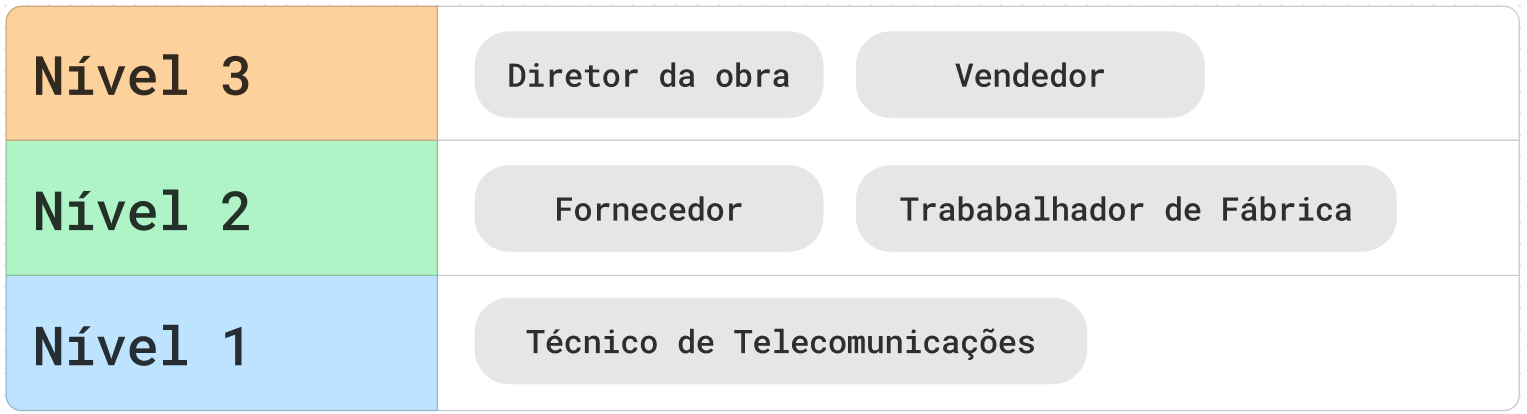
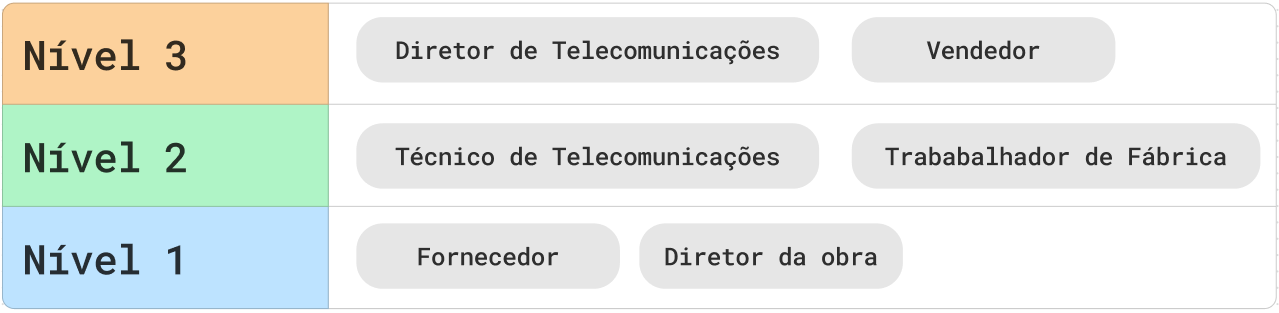
Update final report

Changed region(s): [[0.0, 0.0, 1.0, 1.0], [0.0, 0.4026, 0.183, 0.5751], [0.0, 0.7764, 0.183, 0.8914]]

diff --git a/FinalReport.md b/FinalReport.md
@@ -25,6 +25,7 @@ A arquitetura do sistema é composta por três componentes principais: o *IdP* (
 
 No sistema descrito, temos as seguintes entidades:
 - Diretor da Obra;
+- Diretor de Telecomunicações;
 - Fornecedor;
 - Técnico de Telecomunicações;
 - Trabalhador de Fábrica;
@@ -45,11 +46,11 @@ De modo a melhor compreender o funcionamento do sistema, foi desenvolvido um dia
 Para uma melhor compreensão das medidas de segurança a se tomar, foi descrito o funcionamento das características principais do sistema, de modo a criar uma solução adequada para o mesmo. Esta descrição foi feita com base em diagramas de caso de uso, obtendo-se os seguintes resultados:
 
 <div style="display: flex; justify-content: center;margin-bottom: 40px;">
-    <div>
+    <div style="padding:10px;">
         <img src="img/RealizarObra.png" alt="Pedir Orçamento" width="300"/>
         <p align="center" style="font-size: 10px;">Figura 2: Diagrama de caso de uso para a realização de um pedido de Obra.</p>
     </div>
-    <div>
+    <div style="padding:10px;">
         <img src="img/RealizarOrcamento.png" alt="Pedir Orçamento" width="300"/>
         <p align="center" style="font-size: 10px;">Figura 3: Diagrama de caso de uso para a realização de um pedido de orçamento.</p>
     </div>
@@ -74,7 +75,7 @@ Como o sistema é composto por diversos tipos de utilizados, onde os mesmos aced
 Com base nas funções desempenhadas pelos utilizadores do sistema e sensibilidade dos recursos acedidos, foi desenvolvida a seguinte **hierarquia de acesso**:
 
 <p align="center">
-  <img src="img/Hierarquia_CRM.png" alt="Hierarquia dos Utilizadores" width="400"/>
+  <img src="img/Hierarquia_CRM.png" alt="Hierarquia dos Utilizadores" width="600"/>
 </p>
 
 <p align="center" style="font-size: 10px;">
@@ -112,16 +113,17 @@ Para a implementação do controlo de acesso, foi feito um enumeração dos recu
 
 Com isto, foi definida a seguinte estrutura baseada:
 
-| Acessos                         | Vendedor | Dir. da Obra | Fornecedor | Tec. Telecom | Trab. de Fábrica |
-| ------------------------------- | -------- | ------------ | ---------- | ------------ | ---------------- |
-| Morada e contactos dos Clientes | Sim      | Sim          | Não        | Não          | Não              |
-| Contactos do diretor da obra    | Sim      | -            | Sim        | Não          | Não              |
-| Morada da obra                  | Sim      | Sim          | Não        | Não          | Não              |
-| Material da obra                | Sim      | Sim          | Sim        | Sim          | Sim              |
-| Material em stock               | Não      | Não          | Sim        | Não          | Sim              |
-| Tabela de preços                | Sim      | Sim          | Sim        | Não          | Não              |
-| Escalão de desconto             | Sim      | Não          | Não        | Sim          | Não              |
-| Status da obra                  | Sim      | Sim          | Não        | Não          | Não              |
+| Acessos                         | Vendedor | Dir. da Obra | Fornecedor | Tec. Telecom | Trab. de Fábrica | Dir. de Telecom |
+| ------------------------------- | -------- | ------------ | ---------- | ------------ | ---------------- | --------------- |
+| Morada e contactos dos Clientes | Sim      | Não          | Não        | Não          | Não              | Sim             |
+| Contactos do diretor da obra    | Sim      | Não          | Sim        | Não          | Não              | Sim             |
+| Morada da obra                  | Sim      | Não          | Não        | Não          | Não              | Sim             |
+| Material da obra                | Sim      | Não          | Sim        | Sim          | Sim              | Sim             |
+| Material em stock               | Não      | Não          | Sim        | Não          | Sim              | Não             |
+| Tabela de preços                | Sim      | Sim          | Sim        | Não          | Não              | Sim             |
+| Status da obra                  | Sim      | Não          | Não        | Não          | Não              | Sim             |
+
+> **Nota:** O Diretor da obra apenas tem acesso às informações da obra do próprio.
 
 ## *Authentication* e *Authorization flow*
 
@@ -339,11 +341,13 @@ Com base na descrição do sistema das entidades e relações feita na primeira 
 ## Arquitetura do Sistema
 
 A arquitetura encontra-se dividida em três componentes principais: 
-- **Client's**: Onde se encontra o *frontend* das aplicações;
-- **IdP**: Onde se encontra o *backend* da aplicação, responsável pela autenticação e autorização dos utilizadores;
+- **Client's**: Onde se encontra o *frontend* e *backend* das aplicações;
+- **IdP**: Onde se encontra o *frontend* e *backend* da aplicação responsável pela autenticação e autorização dos utilizadores;
 - **Resource Server**: Onde se encontra o *backend* da aplicação, responsável pela gestão dos recursos e controlo de acessos.
 
-Cada *Client* tem acesso a diferentes recursos, e o seu acesso é condicionado pelo *IdP* e *Resource Server*.
+Cada *Client* tem acesso a diferentes recursos, e o seu acesso é condicionado por: 
+- *IdP*: gestão de acessos (autenticação), 
+- *Resource Server*: gestão de recursos (autorização).
 
 Temos três *Client's* com as seguintes funcionalidades (dependendo do seu nível de risco):
 1. Visualização do material da obra;
@@ -365,7 +369,16 @@ A estrutura do projeto encontra-se organizada da seguinte forma:
 
 TODO: Escrever sobre o *Client* e a sua implementação.
 
-### Armazenamento e Auditoria de *Logs*
+Client 1:
+Gestão do stock de material e ver preços dos produtos(fornecedor);(trabalhador de fábrica)
+
+Client 2:
+Gestão de moradas, clientes e diretores de obra(fornecedor);(vendedor)
+
+Client 3:
+Gestão de preços dos produtos(Diretor Telecom), material obra(técnico Telecom, vendedor), status obra(diretorTelcom, vendedor, técnico telecom) e ver clientes.(Diretor Telecom)
+
+### *Logs*: Armazenamento e Auditoria
 
 Os *logs*, tanto de autenticação (*Authorization Server*) como de acesso a recursos (*Resource Server*), são guardados na base de dados, contendo as seguintes informações, consoante o propósito do *log*:
 
@@ -382,13 +395,13 @@ Existem dois tipos de *logs*:
 - `ERROR`: *Logs* de erro, que contêm informações sobre pedidos que falharam;
   - `AUTHENTICATION_ERROR`: *Logs* de erro de autenticação, que contêm informações sobre pedidos de autenticação que falharam;
   - `ACCESS_ERROR`: *Logs* de erro de acesso, que contêm informações sobre pedidos de acesso a recursos que falharam.
-- `INFO`: *Logs* de informação, que contêm informações sobre pedidos bem-sucedidos.
-  - `AUTHENTICATION_INFO`: *Logs* de informação de autenticação, que contêm informações sobre pedidos de autenticação bem-sucedidos;
-  - `ACCESS_INFO`: *Logs* de informação de acesso, que contêm informações sobre pedidos de acesso a recursos bem-sucedidos.
+- `INFO`: *Logs* de informação, que contêm informações sobre pedidos com sucesso.
+  - `AUTHENTICATION_INFO`: *Logs* de informação de autenticação, que contêm informações sobre pedidos de autenticação com sucesso;
+  - `ACCESS_INFO`: *Logs* de informação de acesso, que contêm informações sobre pedidos de acesso a recursos com sucesso.
 
 ### IdP (*Identity Provider*)
 
-### OAuth 2.0
+#### OAuth 2.0
 
 Assim como foi referido anteriormente na primeira parte do relatório, o fluxo escolhido para o processo de autenticação foi o *Authorization Code flow*.
 
@@ -437,17 +450,14 @@ Este fluxo encontra-se representado no seguinte diagrama:
 
 Para a implementação, foi utilizado a biblioteca `pyotp`, que permite a criação de códigos de autenticação com base no algoritmo `TOTP` (*Time-based One-Time Password*). Este algoritmo gera um código de autenticação que é válido apenas por um curto período de tempo, no caso **90 segundos**, e é gerado com base numa *seed* e no tempo atual.
 
-O seguinte código mostra a geração de um código de autenticação, que recebe como argumentos a *seed* (que será a credencial do utilizador) e o email do utilizador e devolve o código e o URI para a criação de um *QR Code*:
+A geração de um código de autenticação, recebe como argumentos a *seed* (que será o *salt* do utilizador) e o email do utilizador e devolve o código e o URI para a criação de um *QR Code*:
 
-```python
-from pyotp import TOTP
-
-def create_totp(seed: str, email_address: str):
-    totp = TOTP(seed)
-    totp_code = totp.now()
-    uri = totp.provisioning_uri(name=email_address, issuer_name='CRM IAA')
-    return totp_code, uri
-```
+<p align="center">
+  <img src="img/totp.png" width="400" title="OTP">
+</p>
+<p align="center" style="font-size: 10px;">
+  <i>Figura 11 - Código de autenticação gerado com base no algoritmo TOTP</i>
+</p>
 
 O *QR code* é gerado com base no URI, usando a biblioteca `qrcode`, e é guardado num *buffer* de imagem para ser enviado ao utilizador por email.
 
@@ -461,7 +471,7 @@ E foi utilizada a biblioteca `smtplib` para o envio de emails sobre o domínio d
   <img src="img/email_otp.jpg" width="300" title="Email OTP">
 </p>
 <p align="center" style="font-size: 10px;">
-  <i>Figura 11 - Email de autenticação com o código de autenticação e o QR Code</i>
+  <i>Figura 12 - Email de autenticação com o código de autenticação e o QR Code</i>
 </p>
 
 > Os QRCodes gerados são compatíveis com aplicações como o *Google Authenticator*.
@@ -478,9 +488,9 @@ Estes são assinados usando o algoritmo `RS256` (*RSA Signature with SHA-256*), 
 
 > Este par de chaves foi gerado usando a ferramenta *OpenSSL* e encontram-se guardadas na diretoria `backend/keys/` em formato `.pem`.
 
-### Validação dos *tokens*
+### Integridade de *tokens*
 
-Para validar os *tokens* de acesso, o *Resource Server* verifica a assinatura do *token* através de JWKS (*JSON Web Key Set*), que contém as chaves públicas do *IdP*. Envolve a criação de um *endpoint* que retorna as chaves públicas do *IdP* usadas para assinar os *tokens* usando o algoritmo `RS256`.
+Para validar a assinatura dos *tokens* de acesso, é feito através de **JWKS** (*JSON Web Key Set*), que contém todas as chaves públicas do *IdP*. 
 
 Exemplo de um *JWKS*: 
 ```json
@@ -498,22 +508,25 @@ Exemplo de um *JWKS*:
 }
 ```
 
+Envolve a criação de um *endpoint* que retorna as chaves públicas do *IdP* usadas para assinar os *tokens* usando o algoritmo `RS256`. É feito da seguinte forma:
+
+<p align="center">
+  <img src="img/jwks-flow.png" width="500" title="JWKS Endpoint">
+</p>
+<p align="center" style="font-size: 10px;">
+  <i>Figura 13 - Fluxo de mensagens para a obtenção das chaves públicas do IdP</i>
+</p>
+
+
 > Mais informação sobre este *standard* (RFC 7517): [Auth0 - JSON Web Key Set (JWKS)](https://auth0.com/docs/secure/tokens/json-web-tokens/json-web-key-sets)
 
-Ficheiro .PEM correspondente à chave pública:
-```pem
------BEGIN PUBLIC KEY-----
[6 lines of base64/hex data omitted]
-nQIDAQAB
------END PUBLIC KEY-----
-```
-
 > Conversor de JWK para PEM: [JWK to PEM](https://8gwifi.org/jwkconvertfunctions.jsp)
+
+### *Resource Server*
+
+Com base na tabela de mapeamento de recursos definida na primeira parte do trabalho, foram implementados os *endpoints* que permitem o acesso aos recursos, condicionado pelo nível de acesso do utilizador.
+
+#### Validação de *tokens*
 
 No *Resource Server*, é feita a validação do *token* de acesso, verificando a assinatura do *token* com a chave pública do *IdP*, da seguinte forma:
 
@@ -540,15 +553,11 @@ def verify_token(f):
 
 Este *decorator* é aplicado a todos os *endpoints* que requerem autenticação (`@verify_token`), garantindo que apenas pedidos com *tokens* válidos têm acesso aos recursos.
 
-### *Resource Server*
-
-Com base na tabela de mapeamento de recursos definida na primeira parte do trabalho, foram implementados os *endpoints* que permitem o acesso aos recursos, condicionado pelo nível de acesso do utilizador.
-
-#### Implementação de *Middleware*
+#### *Middleware*
 
 Para a implementação do controlo de acesso, foi criado um *middleware* que verifica o nível de acesso do utilizador e o recurso a que está a tentar aceder, e permite ou nega o acesso ao recurso, consoante o nível de acesso do utilizador.
 
-Esta verificação é feita usando o seguinte *decorator*:
+Esta verificação é feita usando o *decorator* `check_permission`, que recebe uma lista de níveis de acesso e verifica se o nível de acesso do utilizador está presente na lista, da seguinte forma:
 ```python
 def check_permission(roles: list):
     def decorator(func):
@@ -579,14 +588,10 @@ Este é aplicado a todos os *endpoints* que requerem controlo de acesso, garanti
 @app.route('/exemplo', methods=['GET'])
 @check_permission(['nivel_1', 'nivel_2', 'nivel_3'])
 def get_resource():
-    return jsonify({"message": "Resource accessed"})
+    return resource
 ```
 
 #### Controlo de Acesso (Biba e LaPadula)
-
-## Testes de Validação
-
-TODO: Ainda não chegamos cá...
 
 ## Conclusão
 
@@ -597,13 +602,13 @@ Em suma, todos os objetivos propostos para a segunda parte do trabalho foram alc
 ## Referências
 
 - [Auth0 - JSON Web Key Set (JWKS)](https://auth0.com/docs/secure/tokens/json-web-tokens/json-web-key-sets)
-- [Authlib Documentation](https://docs.authlib.org/en/latest/)
 - [Auth0 - Authorization Code Flow](https://auth0.com/docs/flows/authorization-code-flow)
 - [Auth0 - Which OAuth 2.0 Flow Should I Use?](https://auth0.com/docs/get-started/authentication-and-authorization-flow/which-oauth-2-0-flow-should-i-use)
-- [Github - challenge-response-authentication example](https://github.com/abhisheklolage/challenge-response-auth/)
-- [PyOTP Documentation](https://pyauth.github.io/pyotp/)
-- [QRCode Documentation](https://pypi.org/project/qrcode/)
-- [JWT.io](https://jwt.io/)
+- [Authlib Documentation](https://docs.authlib.org/en/latest/)
 - [Bootstrap](https://getbootstrap.com/)
 - [Flask Documentation](https://flask.palletsprojects.com/en/2.0.x/)
+- [Github - challenge-response-authentication example](https://github.com/abhisheklolage/challenge-response-auth/)
+- [JWT.io](https://jwt.io/)
+- [PyOTP Documentation](https://pyauth.github.io/pyotp/)
+- [QRCode Documentation](https://pypi.org/project/qrcode/)
 - [Twilio - Verify API](https://www.twilio.com/docs/libraries/reference/twilio-python/index.html)

diff --git a/README.md b/README.md
@@ -17,9 +17,9 @@ As diretorias do projeto estão organizadas da seguinte forma:
 project/ --> Diretoria principal
 │
 ├── frontend/ --> Diretoria das aplicações cliente
-│   ├── client1/ --> Diretoria da aplicação cliente 1 (com a aplicação cliente 1 e o seu *frontend*)
-│   ├── client2/ --> Diretoria da aplicação cliente 2 
-│   └── client3/ --> Diretoria da aplicação cliente 3
+│   ├── client1/
+│   ├── client2/
+│   └── client3/
 │
 ├── backend/ --> Diretoria das aplicações servidor
 │   ├── database/
@@ -77,34 +77,45 @@ $ bash generate_rsa.bash
   - [x] Criação da estrutura da base de dados;
   - [x] Criação de funções que gerem aleatoriamente os dados da base de dados;
   - [x] Chamadas à base dados para o *backend*;
-  - [ ] Validação dos *tokens* de acesso;
+  - [x] Validação dos *tokens* de acesso;
   - [ ] Controlo de acessos;
-  - [ ] Implementação de um sistema de logs;
+  - [x] Implementação de um sistema de logs;
   - [ ] Validação e sanitização dos dados inseridos pelo utilizador;
 - Desenvolvimento do IdP (Simão Andrade e Ana Vidal):
   - [x] Desenvolvimento do *backend*;
   - [x] Desenvolvimento do *frontend* (design e interação com o utilizador);
-  - [x] Implementação de MFAs (excluindo o smartcard);
+  - [x] Implementação de MFAs (excluindo o *smartcard*);
   - [x] Implementação de um sistema de logs;
   - [x] Gestão de *tokens* e *sessões*;
   - [x] Definição do cálculo do risco;
   - [ ] Proteção contra erros de CSRF (*Cross-Site Request Forgery*);
   - [ ] Validação e sanitização dos dados inseridos pelo utilizador;
-  - [ ] Implementação de autenticação por smartcard;
+  - [ ] Implementação de autenticação por *smartcard*;
 - Desenvolvimento dos três Client Applications (Ana Vidal):
   - [x] Implementação do *authentication code flow* do lado do cliente;
   - [ ] Implementação do *frontend* (design e interação com o utilizador);
   - [ ] Validação e sanitização dos dados inseridos pelo utilizador;
 - Testes à aplicação feita (Ana Vidal e Simão Andrade):
-  - [ ] Testes de validação;
-  - [ ] Testes de stress;
-  - [ ] Testes com risco alto;
+  - [x] Testes de validação;
+  - [x] Testes de stress;
+  - [x] Testes com risco alto;
 - Relatório Final (Ana Vidal e Simão Andrade):
   - [x] Descrição das estruturas de dados armazenadas;
   - [x] Estrutura das mensagens trocadas e fluxos de mensagens;
   - [x] Abordagem MFA e gestão de riscos;
   - [ ] Interfaces utilizadas e os seus parâmetros;
-  - [ ] Alguns detalhes de implementação relevantes;
-  - [ ] Resultados obtidos; 
+  - [x] Alguns detalhes de implementação relevantes;
+  - [x] Resultados obtidos; 
 - Extra:
   - [ ] Documentação do projeto;
+
+
+## TODO:
+
+- [ ] Acabar todos os routes de acesso
+  - [ ] Tabela de preços
+- [ ] Fazer os routes de inserção de dados
+- [ ] Replicar para os três clientes (ideia: em cada cliente ter um serviço diferente, exemplo, no client app 1 é para gestão de stocks, no client app 2 é para gestão de clientes, no client app 3 é para gestão de obras)
+- [ ] Mudar a tabela da base de dados no relatório
+- [ ] Tirar prints do projeto para o relatório
+- [ ] Rever o relatório
